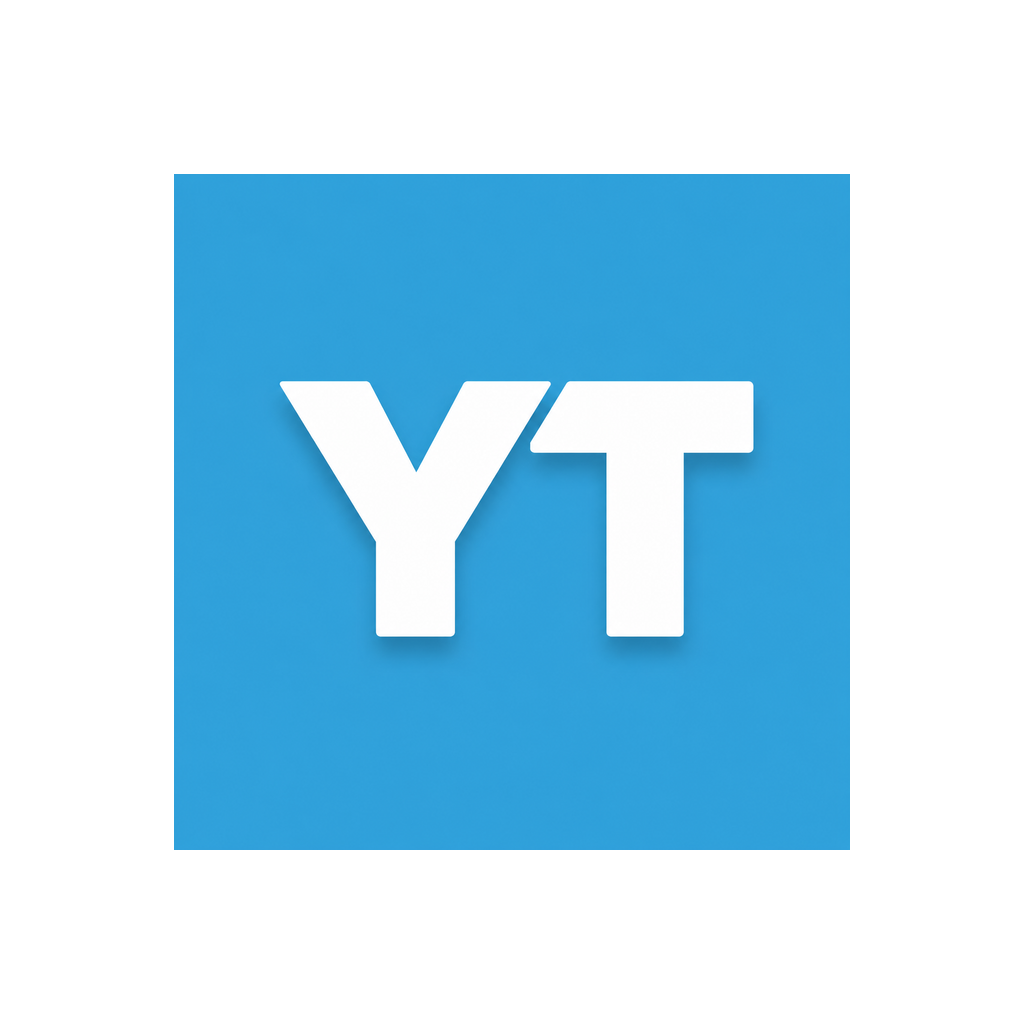
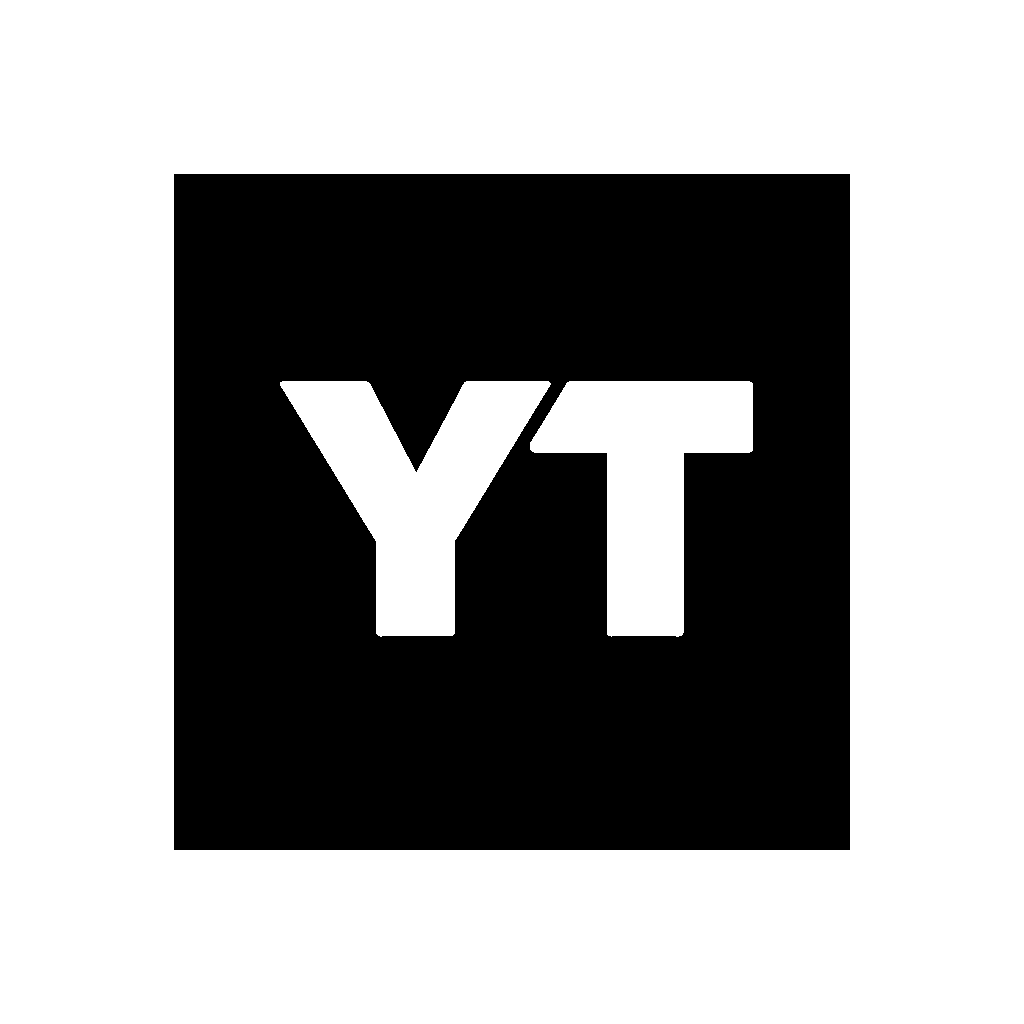
fix(android): generate monochrome mask silhouette and sync native prebuild files

diff --git a/scripts/generate-brand-images.js b/scripts/generate-brand-images.js
@@ -1,4 +1,4 @@
-// Usage: npm install --no-save sharp && node scripts/generate-brand-image.js
+// Usage: npm install --no-save sharp && node scripts/generate-brand-images.js
 
 const sharp = require('sharp');
 const path = require('path');
@@ -24,13 +24,14 @@ async function main() {
   console.log('OK adaptive-icon-foreground.png (safe zone 66%)');
 
   // Monochrome layer for Android 13+ themed icons
-  const monoInnerBuf = await sharp(A('icon-source.png'))
-    .resize(inner, inner)
-    .toBuffer();
-  await sharp({ create: { width: 1024, height: 1024, channels: 4, background: {r: 0, g: 0, b: 0, alpha: 0} } } )
-    .png()
-    .composite([{ input: monoInnerBuf, gravity: 'centre' }])
-    .toFile(A('adaptive-icon-monochrome.png'));
+  const monoMask = await sharp(innerBuf)
+  .threshold(200)
+  .toBuffer();
+
+  await sharp({ create: { width: 1024, height: 1024, channels: 4, background: { r: 255, g: 255, b: 255, alpha: 0 } } } )
+  .composite([{ input: monoMask, gravity: 'centre' } ])
+  .png()
+  .toFile(A('adaptive-icon-monochrome.png'));
   console.log('OK adaptive-icon-monochrome.png (safe zone 66%)');
 
   await sharp({ create: { width: 1024, height: 1024, channels: 4, background: BLUE } })
